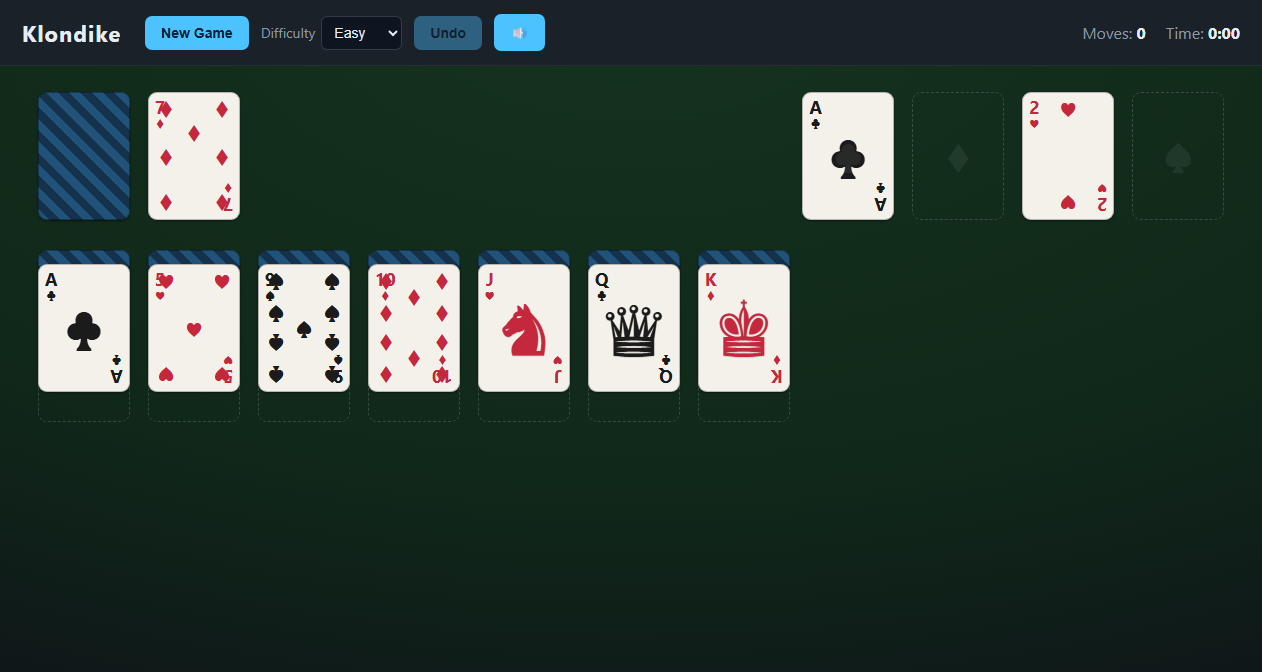
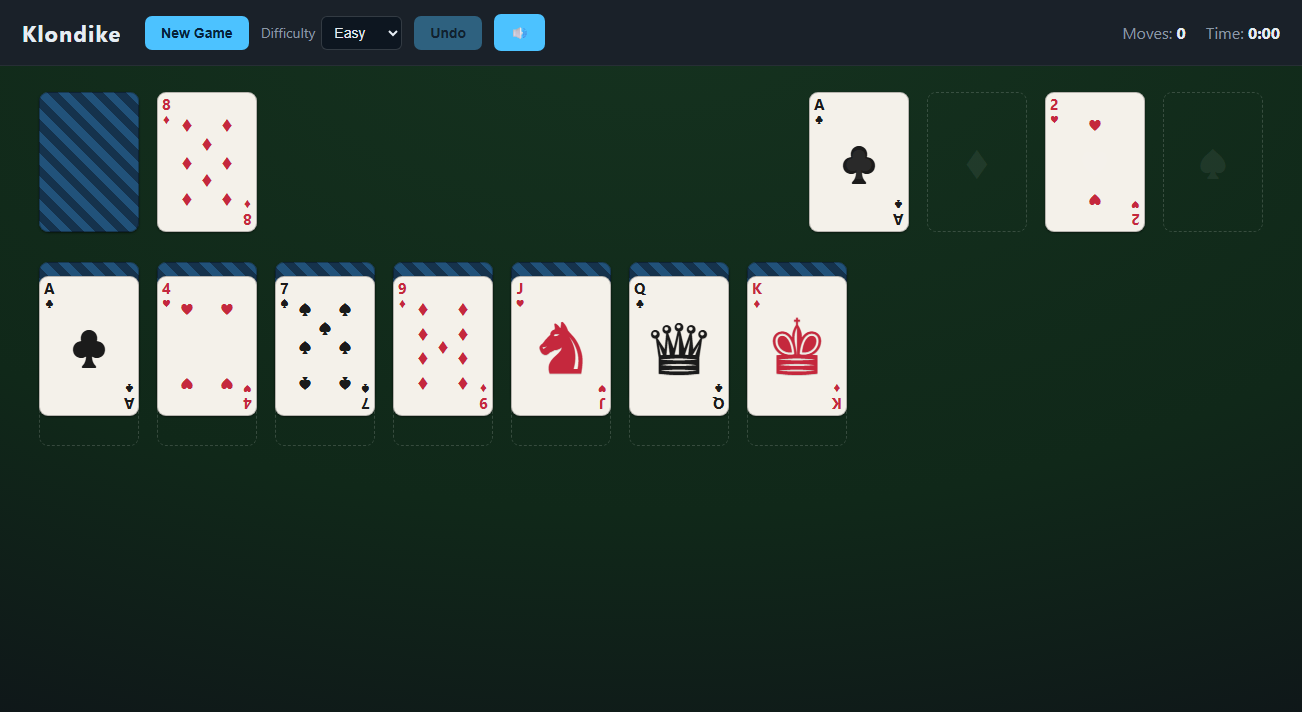
Improvements: card margins (no pip overlap), Auto-Collect, foundation drag-back
1. Cards: larger (100x140), narrower corner indices, pip field inset clear of
   the corners so pips never overlap the rank/suit. Verified pixel-level: 0
   pip/index intersections across A-10.
2. Auto-Collect: button appears in the top bar once everything is known (stock
   empty, no face-down tableau cards). Animates foundation collection one card
   at a time in rank order with the collect sound; stops on win (no instant
   skip). Input is locked while it runs.
3. Foundation -> tableau: confirmed a collected card can be dragged/clicked back
   onto the tableau per the rules (already supported; now covered by tests).

Verified in headless Chrome (CDP): 12/12 checks incl. no overlap, gradual
auto-collect to 52, win overlay, foundation drag-back, zero exceptions.

diff --git a/src/app.js b/src/app.js
@@ -12,7 +12,9 @@
     difficulty: 'easy',
     timerId: null,
     startTime: 0,
-    running: false
+    running: false,
+    autoRunning: false,   // true while Auto-Collect is animating
+    autoTimer: null
   };
 
   // ---- deal selection ----------------------------------------------------
@@ -51,7 +53,67 @@
   }
 
   function updateUndoBtn() {
-    document.getElementById('undo').disabled = app.history.length === 0;
+    document.getElementById('undo').disabled = app.history.length === 0 || app.autoRunning;
+  }
+
+  // ---- auto-collect ------------------------------------------------------
+  // Available once everything is known: stock empty and no face-down tableau
+  // cards. From there the endgame is finishable by foundation moves alone.
+  function canAutoCollect(st) {
+    if (st.stock.length) return false;
+    for (var c = 0; c < 7; c++) {
+      var col = st.tableau[c];
+      for (var i = 0; i < col.length; i++) if (!col[i].up) return false;
+    }
+    return !engine.isWin(st);
+  }
+
+  // The next card to send to a foundation, lowest rank first (numerical order).
+  function nextAutoMove(st) {
+    var bestRank = 99, move = null;
+    for (var c = 0; c < 7; c++) {
+      var col = st.tableau[c];
+      if (!col.length) continue;
+      var t = col[col.length - 1];
+      if (t.up && engine.canMoveToFoundation(t, st.foundations[t.s]) && t.r < bestRank) {
+        bestRank = t.r; move = { type: engine.MOVES.TABLEAU_TO_FOUNDATION, from: c };
+      }
+    }
+    var w = engine.top(st.waste);
+    if (w && engine.canMoveToFoundation(w, st.foundations[w.s]) && w.r < bestRank) {
+      move = { type: engine.MOVES.WASTE_TO_FOUNDATION };
+    }
+    return move;
+  }
+
+  function updateAutoBtn() {
+    document.getElementById('auto-collect').hidden = app.autoRunning || !canAutoCollect(app.state);
+  }
+
+  function startAutoCollect() {
+    if (app.autoRunning || !canAutoCollect(app.state)) return;
+    app.autoRunning = true;
+    document.getElementById('new-game').disabled = true;
+    document.getElementById('difficulty').disabled = true;
+    updateUndoBtn();
+    updateAutoBtn();
+    // Step one card at a time so the player sees them collected in order.
+    app.autoTimer = setInterval(function () {
+      var m = nextAutoMove(app.state);
+      if (!m) { stopAutoCollect(); return; }
+      commit(m); // commit plays the collect sound + re-renders + checks win
+      if (engine.isWin(app.state)) stopAutoCollect();
+    }, 200);
+  }
+
+  function stopAutoCollect() {
+    if (app.autoTimer) clearInterval(app.autoTimer);
+    app.autoTimer = null;
+    app.autoRunning = false;
+    document.getElementById('new-game').disabled = false;
+    document.getElementById('difficulty').disabled = false;
+    updateUndoBtn();
+    updateAutoBtn();
   }
 
   // ---- core actions ------------------------------------------------------
@@ -59,6 +121,7 @@
     root.render(app.state);
     updateStats();
     updateUndoBtn();
+    updateAutoBtn();
     if (engine.isWin(app.state)) onWin();
   }
 
@@ -101,6 +164,7 @@
   }
 
   function newGame(diff) {
+    if (app.autoRunning) stopAutoCollect();
     app.difficulty = diff || app.difficulty;
     var order = dealForDifficulty(app.difficulty);
     app.state = engine.dealFromOrder(order);
@@ -122,6 +186,7 @@
   }
 
   app.getState = function () { return app.state; };
+  app.sync = afterChange; // re-render + refresh controls from current state
   app.commit = commit;
   app.undo = undo;
   app.newGame = newGame;
@@ -135,6 +200,7 @@
       newGame(document.getElementById('difficulty').value);
     });
     document.getElementById('undo').addEventListener('click', undo);
+    document.getElementById('auto-collect').addEventListener('click', startAutoCollect);
     document.getElementById('sound-toggle').addEventListener('click', function (e) {
       if (!root.sound) return;
       var on = !root.sound.isEnabled();

diff --git a/styles.css b/styles.css
@@ -17,8 +17,8 @@
   --selected: #ffd54a;
   --drop: #6ee7a8;
 
-  --card-w: 92px;
-  --card-h: 128px;
+  --card-w: 100px;
+  --card-h: 140px;
   --fan-up: 30px;            /* vertical offset between stacked face-up cards */
   --fan-down: 14px;          /* tighter offset for face-down cards */
   --radius: 9px;
@@ -65,6 +65,9 @@ button {
 }
 button:hover:not(:disabled) { filter: brightness(1.08); }
 button:disabled { opacity: .4; cursor: default; }
+
+button[hidden] { display: none; }
+button.auto { background: var(--drop); color: #04331f; }
 
 .difficulty { color: var(--muted); font-size: 14px; display: flex; align-items: center; gap: 6px; }
 select {
@@ -148,25 +151,27 @@ select {
   position: absolute;
   font-weight: 700;
   line-height: 1;
-  font-size: 18px;
+  font-size: 15px;
   display: flex;
   flex-direction: column;
   align-items: center;
+  white-space: nowrap;
 }
-.card .corner.tl { top: 6px; left: 7px; }
-.card .corner.br { bottom: 6px; right: 7px; transform: rotate(180deg); }
-.card .corner .glyph { font-size: 14px; margin-top: 1px; }
+.card .corner.tl { top: 5px; left: 5px; }
+.card .corner.br { bottom: 5px; right: 5px; transform: rotate(180deg); }
+.card .corner .glyph { font-size: 12px; margin-top: 1px; }
 
-/* pip field for number cards (A-10) — pips placed by % within an inset region */
-.card .pips { position: absolute; left: 18px; right: 18px; top: 16px; bottom: 16px; }
+/* pip field for number cards (A-10) — pips placed by % within an inset region.
+   The field is inset clear of the corner indices so pips never overlap them. */
+.card .pips { position: absolute; left: 30px; right: 30px; top: 32px; bottom: 32px; }
 .card .pip {
   position: absolute;
-  font-size: 24px;
+  font-size: 19px;
   line-height: 1;
   transform: translate(-50%, -50%);
 }
 .card .pip.flip { transform: translate(-50%, -50%) rotate(180deg); } /* lower-half pips */
-.card .pip.ace { font-size: 56px; }
+.card .pip.ace { font-size: 54px; }
 
 /* court cards (J/Q/K): suit-colored chess-piece glyph */
 .card .court {

diff --git a/src/interactions.js b/src/interactions.js
@@ -82,6 +82,7 @@
 
     // ---- click ----------------------------------------------------------
     board.addEventListener('click', function (e) {
+      if (app.autoRunning) return;
       var cardEl = e.target.closest('.card');
       var pileEl = e.target.closest('.pile');
 
@@ -115,6 +116,7 @@
 
     // ---- double-click: auto to foundation -------------------------------
     board.addEventListener('dblclick', function (e) {
+      if (app.autoRunning) return;
       var cardEl = e.target.closest('.card');
       if (!cardEl) return;
       var pile = cardEl.dataset.pile;
@@ -132,6 +134,7 @@
     // ---- drag and drop --------------------------------------------------
     var dragSrc = null;
     board.addEventListener('dragstart', function (e) {
+      if (app.autoRunning) { e.preventDefault(); return; }
       var cardEl = e.target.closest('.card');
       var src = sourceFromCard(cardEl);
       if (!src) { e.preventDefault(); return; }

diff --git a/index.html b/index.html
@@ -21,6 +21,7 @@
         </select>
       </label>
       <button id="undo" type="button" disabled>Undo</button>
+      <button id="auto-collect" type="button" class="auto" hidden>Auto-Collect</button>
       <button id="sound-toggle" type="button" title="Toggle sound" aria-label="Toggle sound">🔊</button>
     </div>
     <div class="stats">

diff --git a/src/render.js b/src/render.js
@@ -122,7 +122,7 @@
         offset += pile[i].up ? 30 : 14; // --fan-up / --fan-down
       }
       // keep column tall enough to receive drops on empty space
-      colEl.style.minHeight = (offset + 128) + 'px';
+      colEl.style.minHeight = (offset + 140) + 'px';
     }
   }
 

diff --git a/README.md b/README.md
@@ -23,6 +23,12 @@ That's it — the whole game runs from the local files over `file://`.
   - **drag and drop** it onto a destination.
 - **Auto to foundation:** **double-click** a card to send it to its foundation
   if the move is legal.
+- **Foundation → tableau:** you can drag (or click-move) a card back down from a
+  foundation onto the tableau, per the rules, for more advanced play.
+- **Auto-Collect:** once every card is known (the stock is empty and no tableau
+  cards are face-down), an **Auto-Collect** button appears next to Undo. Click it
+  to watch the remaining cards fly to the foundations one by one, in rank order,
+  each with its collect sound — it does not skip straight to the win screen.
 - **Undo:** click **Undo** (or press **Ctrl/Cmd+Z**). Unlimited within a match.
 - **New Game / Difficulty:** pick a level and press **New Game**. Changing the
   difficulty applies on the next New Game.
